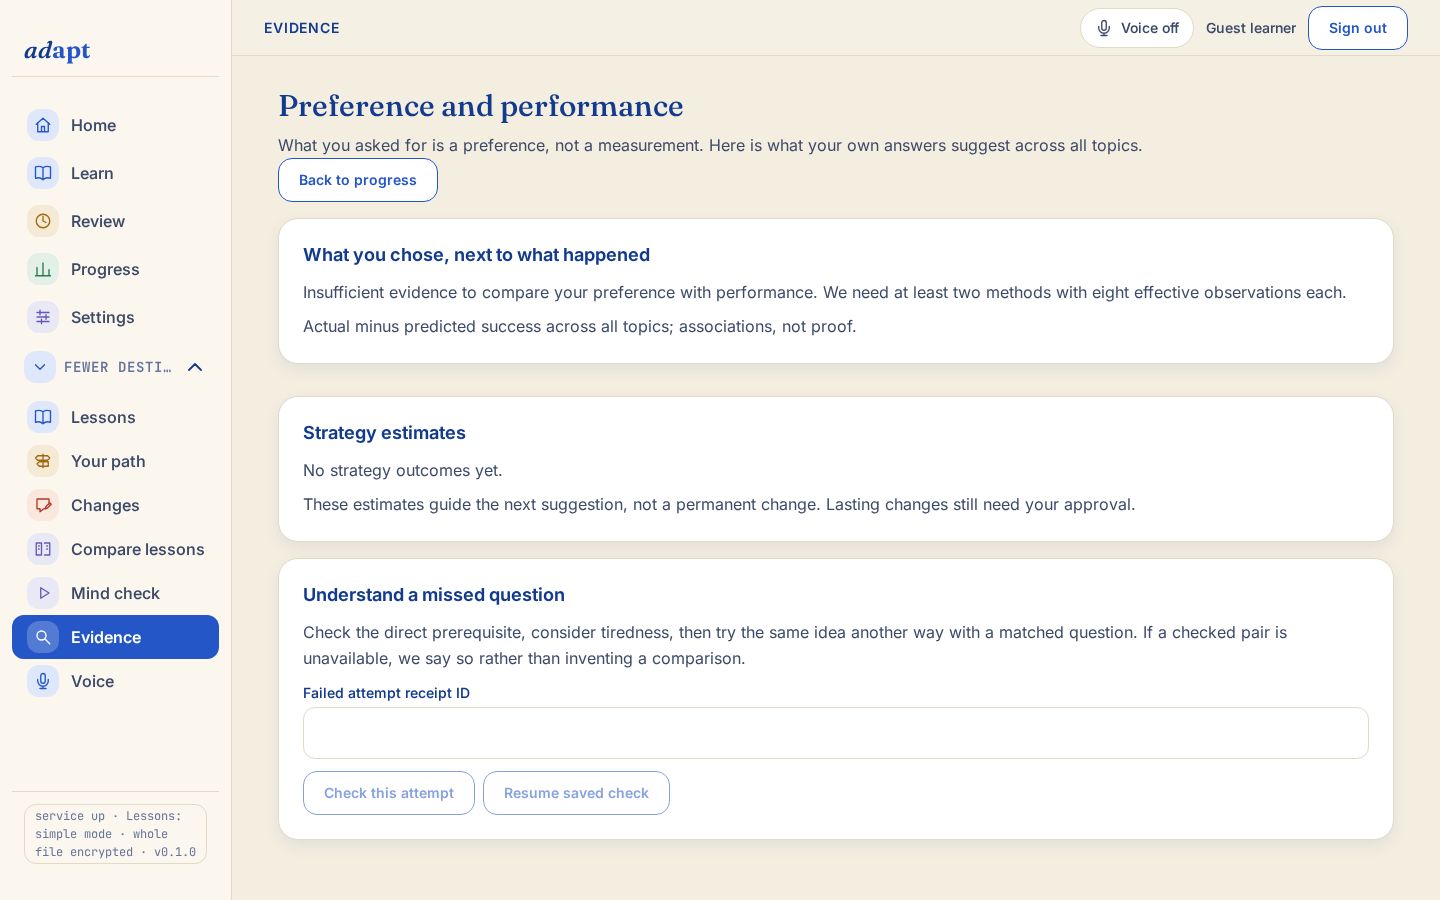
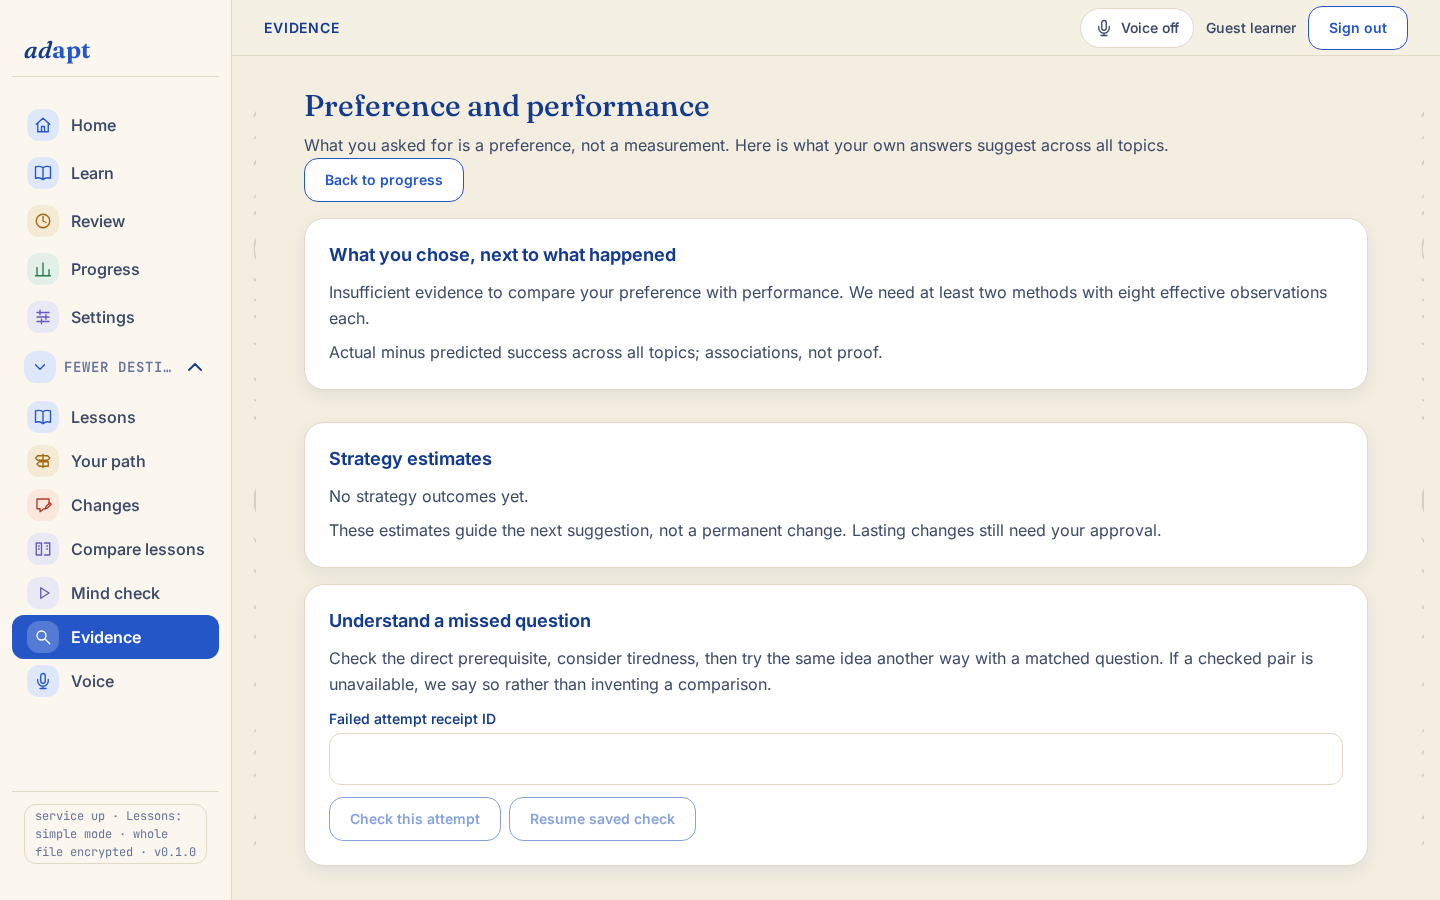
Round 6: topo gutter pixel test + gutter grid fix
- round6-topo.mjs measures luminance spread of the gutter strips (acceptance 7):
  pattern visible on 5 pages (sigma ~5 where flat beige is ~0)
- page-frame grid side tracks get a real 40px minimum — they were collapsing to
  zero at 1440px and taking the topo gutters with them
- shots_r6 refreshed to the fixed layout

Changed region(s): [[0.1875, 0.0933, 0.9688, 0.9644]]

diff --git a/docs/shots_r6/contact-sheet.html b/docs/shots_r6/contact-sheet.html
@@ -1,8 +1,8 @@
 <!doctype html><meta charset="utf-8"><style>
 body{margin:24px;background:#f4eee0;font:14px/1.4 Georgia,serif;color:#123a8f}
 h1{font-size:22px}
-.row{display:flex;gap:16px;margin:0 0 16px}
-figure{margin:0;flex:1}
+.row{display:flex;align-items:flex-start;gap:16px;margin:0 0 16px}
+figure{margin:0}
 img{width:100%;border:1px solid #e2d9c6;border-radius:10px;display:block}
 figcaption{margin-top:4px;font-size:12px;color:#66739a}
-</style><h1>Adapt · Round 6 · every page · 1440×900 and 390×844</h1><div class="row"><figure><img src="home-desktop.png" alt=""><figcaption>home · desktop</figcaption></figure><figure><img src="home-mobile.png" alt=""><figcaption>home · mobile</figcaption></figure></div><div class="row"><figure><img src="learn-desktop.png" alt=""><figcaption>learn · desktop</figcaption></figure><figure><img src="learn-mobile.png" alt=""><figcaption>learn · mobile</figcaption></figure></div><div class="row"><figure><img src="review-desktop.png" alt=""><figcaption>review · desktop</figcaption></figure><figure><img src="review-mobile.png" alt=""><figcaption>review · mobile</figcaption></figure></div><div class="row"><figure><img src="progress-desktop.png" alt=""><figcaption>progress · desktop</figcaption></figure><figure><img src="progress-mobile.png" alt=""><figcaption>progress · mobile</figcaption></figure></div><div class="row"><figure><img src="settings-desktop.png" alt=""><figcaption>settings · desktop</figcaption></figure><figure><img src="settings-mobile.png" alt=""><figcaption>settings · mobile</figcaption></figure></div><div class="row"><figure><img src="lesson-desktop.png" alt=""><figcaption>lesson · desktop</figcaption></figure><figure><img src="lesson-mobile.png" alt=""><figcaption>lesson · mobile</figcaption></figure></div><div class="row"><figure><img src="journey-desktop.png" alt=""><figcaption>journey · desktop</figcaption></figure><figure><img src="journey-mobile.png" alt=""><figcaption>journey · mobile</figcaption></figure></div><div class="row"><figure><img src="proposals-desktop.png" alt=""><figcaption>proposals · desktop</figcaption></figure><figure><img src="proposals-mobile.png" alt=""><figcaption>proposals · mobile</figcaption></figure></div><div class="row"><figure><img src="contrast-desktop.png" alt=""><figcaption>contrast · desktop</figcaption></figure><figure><img src="contrast-mobile.png" alt=""><figcaption>contrast · mobile</figcaption></figure></div><div class="row"><figure><img src="baseline-desktop.png" alt=""><figcaption>baseline · desktop</figcaption></figure><figure><img src="baseline-mobile.png" alt=""><figcaption>baseline · mobile</figcaption></figure></div><div class="row"><figure><img src="evidence-desktop.png" alt=""><figcaption>evidence · desktop</figcaption></figure><figure><img src="evidence-mobile.png" alt=""><figcaption>evidence · mobile</figcaption></figure></div><div class="row"><figure><img src="voice-desktop.png" alt=""><figcaption>voice · desktop</figcaption></figure><figure><img src="voice-mobile.png" alt=""><figcaption>voice · mobile</figcaption></figure></div><div class="row"><figure><img src="onboarding-desktop.png" alt=""><figcaption>onboarding · desktop</figcaption></figure><figure><img src="onboarding-mobile.png" alt=""><figcaption>onboarding · mobile</figcaption></figure></div><div class="row"><figure><img src="diagnose-desktop.png" alt=""><figcaption>diagnose · desktop</figcaption></figure><figure><img src="diagnose-mobile.png" alt=""><figcaption>diagnose · mobile</figcaption></figure></div><div class="row"><figure><img src="first-lesson-desktop.png" alt=""><figcaption>first-lesson · desktop</figcaption></figure><figure><img src="first-lesson-mobile.png" alt=""><figcaption>first-lesson · mobile</figcaption></figure></div>
+</style><h1>Adapt · Round 6 · every page · 1440×900 and 390×844</h1><div class="row"><figure style="flex:1.6"><img src="home-desktop.png" alt=""><figcaption>home · desktop</figcaption></figure><figure style="flex:0.46"><img src="home-mobile.png" alt=""><figcaption>home · mobile</figcaption></figure></div><div class="row"><figure style="flex:1.6"><img src="learn-desktop.png" alt=""><figcaption>learn · desktop</figcaption></figure><figure style="flex:0.46"><img src="learn-mobile.png" alt=""><figcaption>learn · mobile</figcaption></figure></div><div class="row"><figure style="flex:1.6"><img src="review-desktop.png" alt=""><figcaption>review · desktop</figcaption></figure><figure style="flex:0.46"><img src="review-mobile.png" alt=""><figcaption>review · mobile</figcaption></figure></div><div class="row"><figure style="flex:1.6"><img src="progress-desktop.png" alt=""><figcaption>progress · desktop</figcaption></figure><figure style="flex:0.46"><img src="progress-mobile.png" alt=""><figcaption>progress · mobile</figcaption></figure></div><div class="row"><figure style="flex:1.6"><img src="settings-desktop.png" alt=""><figcaption>settings · desktop</figcaption></figure><figure style="flex:0.46"><img src="settings-mobile.png" alt=""><figcaption>settings · mobile</figcaption></figure></div><div class="row"><figure style="flex:1.6"><img src="lesson-desktop.png" alt=""><figcaption>lesson · desktop</figcaption></figure><figure style="flex:0.46"><img src="lesson-mobile.png" alt=""><figcaption>lesson · mobile</figcaption></figure></div><div class="row"><figure style="flex:1.6"><img src="journey-desktop.png" alt=""><figcaption>journey · desktop</figcaption></figure><figure style="flex:0.46"><img src="journey-mobile.png" alt=""><figcaption>journey · mobile</figcaption></figure></div><div class="row"><figure style="flex:1.6"><img src="proposals-desktop.png" alt=""><figcaption>proposals · desktop</figcaption></figure><figure style="flex:0.46"><img src="proposals-mobile.png" alt=""><figcaption>proposals · mobile</figcaption></figure></div><div class="row"><figure style="flex:1.6"><img src="contrast-desktop.png" alt=""><figcaption>contrast · desktop</figcaption></figure><figure style="flex:0.46"><img src="contrast-mobile.png" alt=""><figcaption>contrast · mobile</figcaption></figure></div><div class="row"><figure style="flex:1.6"><img src="baseline-desktop.png" alt=""><figcaption>baseline · desktop</figcaption></figure><figure style="flex:0.46"><img src="baseline-mobile.png" alt=""><figcaption>baseline · mobile</figcaption></figure></div><div class="row"><figure style="flex:1.6"><img src="evidence-desktop.png" alt=""><figcaption>evidence · desktop</figcaption></figure><figure style="flex:0.46"><img src="evidence-mobile.png" alt=""><figcaption>evidence · mobile</figcaption></figure></div><div class="row"><figure style="flex:1.6"><img src="voice-desktop.png" alt=""><figcaption>voice · desktop</figcaption></figure><figure style="flex:0.46"><img src="voice-mobile.png" alt=""><figcaption>voice · mobile</figcaption></figure></div><div class="row"><figure style="flex:1.6"><img src="onboarding-desktop.png" alt=""><figcaption>onboarding · desktop</figcaption></figure><figure style="flex:0.46"><img src="onboarding-mobile.png" alt=""><figcaption>onboarding · mobile</figcaption></figure></div><div class="row"><figure style="flex:1.6"><img src="diagnose-desktop.png" alt=""><figcaption>diagnose · desktop</figcaption></figure><figure style="flex:0.46"><img src="diagnose-mobile.png" alt=""><figcaption>diagnose · mobile</figcaption></figure></div><div class="row"><figure style="flex:1.6"><img src="first-lesson-desktop.png" alt=""><figcaption>first-lesson · desktop</figcaption></figure><figure style="flex:0.46"><img src="first-lesson-mobile.png" alt=""><figcaption>first-lesson · mobile</figcaption></figure></div>

diff --git a/frontend/src/components/shell/shell.css b/frontend/src/components/shell/shell.css
@@ -183,7 +183,9 @@
 /* ---------- Sheet + pattern gutters ---------- */
 .page-frame {
   display: grid;
-  grid-template-columns: minmax(0, 1fr) minmax(0, var(--content-max)) minmax(0, 1fr);
+  /* The side tracks keep a real minimum: at 1440 there is barely spare room, and
+     a 1fr track that may reach 0 will — taking the topo gutter with it. */
+  grid-template-columns: minmax(40px, 1fr) minmax(0, var(--content-max)) minmax(40px, 1fr);
   flex: 1;
   width: 100%;
   position: relative;

diff --git a/CHANGELOG.md b/CHANGELOG.md
@@ -67,6 +67,10 @@
 - `docs/shots_r6/`: every page at 1440×900 and 390×844 (30 shots) + `contact-sheet.png`
   + component shots (wizard, test-lab, journey). Regenerate with
   `frontend/tests-e2e/round6-shots.mjs`.
+- **Topo gutter pixel test** (`tests-e2e/round6-topo.mjs`): luminance spread measured
+  on 10 gutter strips across 5 pages (σ ≈ 4.6–5.1 where flat beige scores ~0) — the
+  pattern is visibly present in ≥4 pages' gutters. It found the gutter columns
+  collapsing to zero at 1440px and the grid now keeps a real minimum.
 - `docs/DESIGN_SYSTEM.md` — the token/type/layout rules in one page.
 - `scripts/live_model_check.py` was **not** run: no model key is configured in this
   sandbox (the script needs `GEMINI`/console key configuration).
